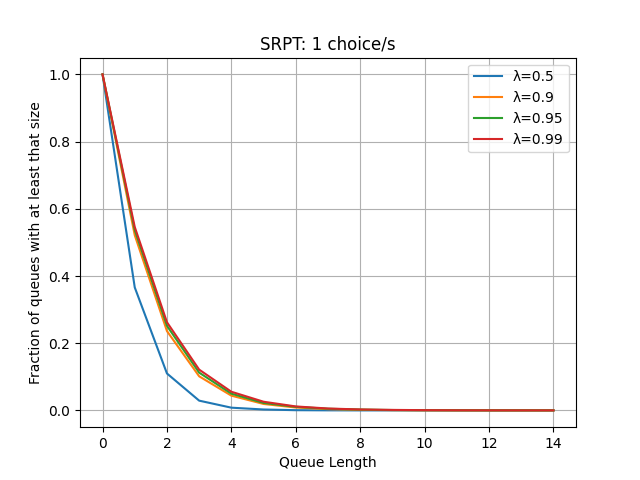
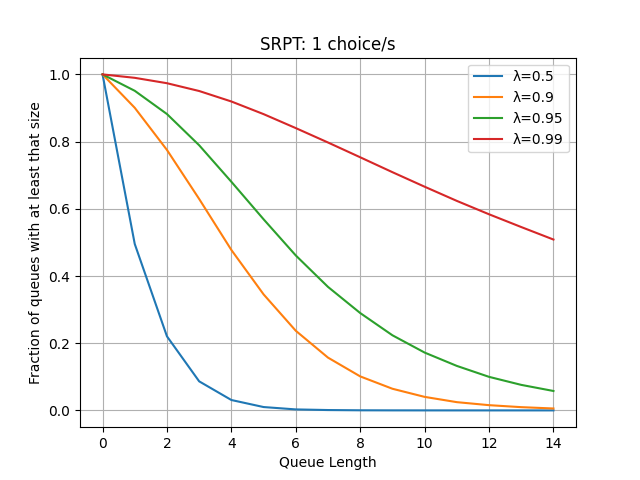
finish srpt implementation

diff --git a/queue_sim/srpt_sim.py b/queue_sim/srpt_sim.py
@@ -56,17 +56,17 @@ class Queues(Simulation):
         initial_remaining_time = self.service_gen() if weibull else expovariate(mu)
         # initial_job = Job(0, initial_remaining_time)
         # self.jobs[0] = initial_job
-        self.schedule(initial_remaining_time, Arrival(0,initial_remaining_time))
+        self.schedule(initial_remaining_time, Arrival(0,self))
 
     def schedule_arrival(self, job_id):
         """Schedule the arrival of a new job."""
         remaining_time = self.arrival_gen() if self.useWeibull else expovariate(self.arrival_rate)
-        self.schedule(remaining_time, Arrival(job_id,remaining_time))
+        self.schedule(remaining_time, Arrival(job_id,self))
 
     def schedule_completion(self, job, queue_index):  
         """Schedule the completion of a job."""
-        remaining_time = self.service_gen() if self.useWeibull else expovariate(self.mu)
-        self.schedule(remaining_time,Completion(job, queue_index))
+
+        self.schedule(job.remaining_time,Completion(job, queue_index))
 
 
     def queue_len(self, i):
@@ -80,8 +80,9 @@ class Queues(Simulation):
 class Arrival(Event):
     """Event representing the arrival of a new job."""
 
-    def __init__(self, job_id, reamining_time):
-        self.job = Job(job_id,reamining_time)
+    def __init__(self, job_id,sim: Queues):
+        remaining_time = sim.service_gen() if sim.useWeibull else expovariate(sim.mu)
+        self.job = Job(job_id,remaining_time)
 
     def process(self, sim: Queues):  
         sim.arrivals[self.job.job_id] = sim.t  # set the arrival time of the job
@@ -92,23 +93,9 @@ class Arrival(Event):
             sim.running[queue_index] = self.job
             sim.schedule_completion(self.job,queue_index)
         else:
-            # Preemption check: compare the remaining times
-            current_job = sim.running[queue_index]
+            heapq.heappush(sim.queues[queue_index], (self.job.remaining_time, self.job))
             
-            if self.job.remaining_time < current_job.remaining_time:
-                # Preempt the current job
-                current_job.remaining_time = (sim.t - sim.arrivals[current_job.job_id])
-                
-                heapq.heappush(sim.queues[queue_index], (current_job.remaining_time, current_job))
-            
-                 # Start the new job
-                sim.running[queue_index] = self.job
-                sim.schedule_completion(self.job, queue_index)
-            else:
-                # Add new job to the queue
-                heapq.heappush(sim.queues[queue_index], (self.job.remaining_time, self.job))
-              
-                
+          
         sim.schedule_arrival(self.job.job_id + 1)
 
 class Completion(Event):
@@ -122,13 +109,12 @@ class Completion(Event):
         queue_index = self.queue_index
         assert sim.running[queue_index].job_id == self.job.job_id  # the job must be the one running
         sim.completions[self.job.job_id] = sim.t
-
-        self.job.remaining_time = 0  # Mark the job as completed
         
         queue = sim.queues[queue_index]
+
         if queue:
             # Assign the job with the shortest remaining time to start running
-            shorttes_remainig_time, shortest_job = heapq.heappop(queue)
+            _,shortest_job = heapq.heappop(queue)
             sim.running[queue_index] = shortest_job      
             sim.schedule_completion(shortest_job, queue_index)
         else:
@@ -146,7 +132,7 @@ class Monitoring(Event):
 
 
 def compute_queue_length_distribution(monitored_data, n):
-    max_length = 14
+    max_length = 30
     fractions = []
     for x in range(max_length + 1):
         fraction = [
